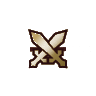
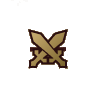
asset updates

diff --git a/docs/gladiator-arena-marker.md b/docs/gladiator-arena-marker.md
@@ -117,15 +117,21 @@ connector line masked out) and matched to the existing 96x96 sprite format
 | File                         | Contents                                              |
 | ---------------------------- | ----------------------------------------------------- |
 | `gladiator_arena.png`        | Crossed swords only, transparent background           |
-| `neutral_low_arena.png`      | Crossed swords over a **low** neutral zone bubble     |
-| `neutral_medium_arena.png`   | Crossed swords over a **medium** neutral zone bubble  |
-| `neutral_high_arena.png`     | Crossed swords over a **high** neutral zone bubble    |
+| `neutral_none_arena.png`     | Crossed swords over a **none** (open-ring) zone bubble |
+| `neutral_low_arena.png`      | Crossed swords over a **low** (bronze) zone bubble    |
+| `neutral_medium_arena.png`   | Crossed swords over a **medium** (silver) zone bubble |
+| `neutral_high_arena.png`     | Crossed swords over a **high** (gold) zone bubble     |
 
 Notes:
 
-- `gladiator_arena.png` is the master glyph; it is composited (scaled to sit
-  inside the ring) onto the existing `neutral_{low,medium,high}.png` bubbles to
-  produce the three zone-background variants.
+- `gladiator_arena.png` is the master glyph (solid, fully opaque swords). It is
+  composited at ~0.85 scale (so the swords are about as big as the zone's outer
+  ring, matching the Blitz preview) onto the `neutral_{none,low,medium,high}.png`
+  bubbles to produce the zone-background variants.
+- The neutral-zone quality bubbles are: **none** = open ring (transparent
+  centre), **low** = light bronze, **medium** = silver, **high** = gold. The
+  bronze **low** bubble is derived from the gold **high** bubble by recolouring
+  the fill (keeping the ring and shading).
 - The **medium** variant has no official source (no official template places an
   arena in a medium zone); it is synthesised from the master glyph for
   completeness of the sprite set.
